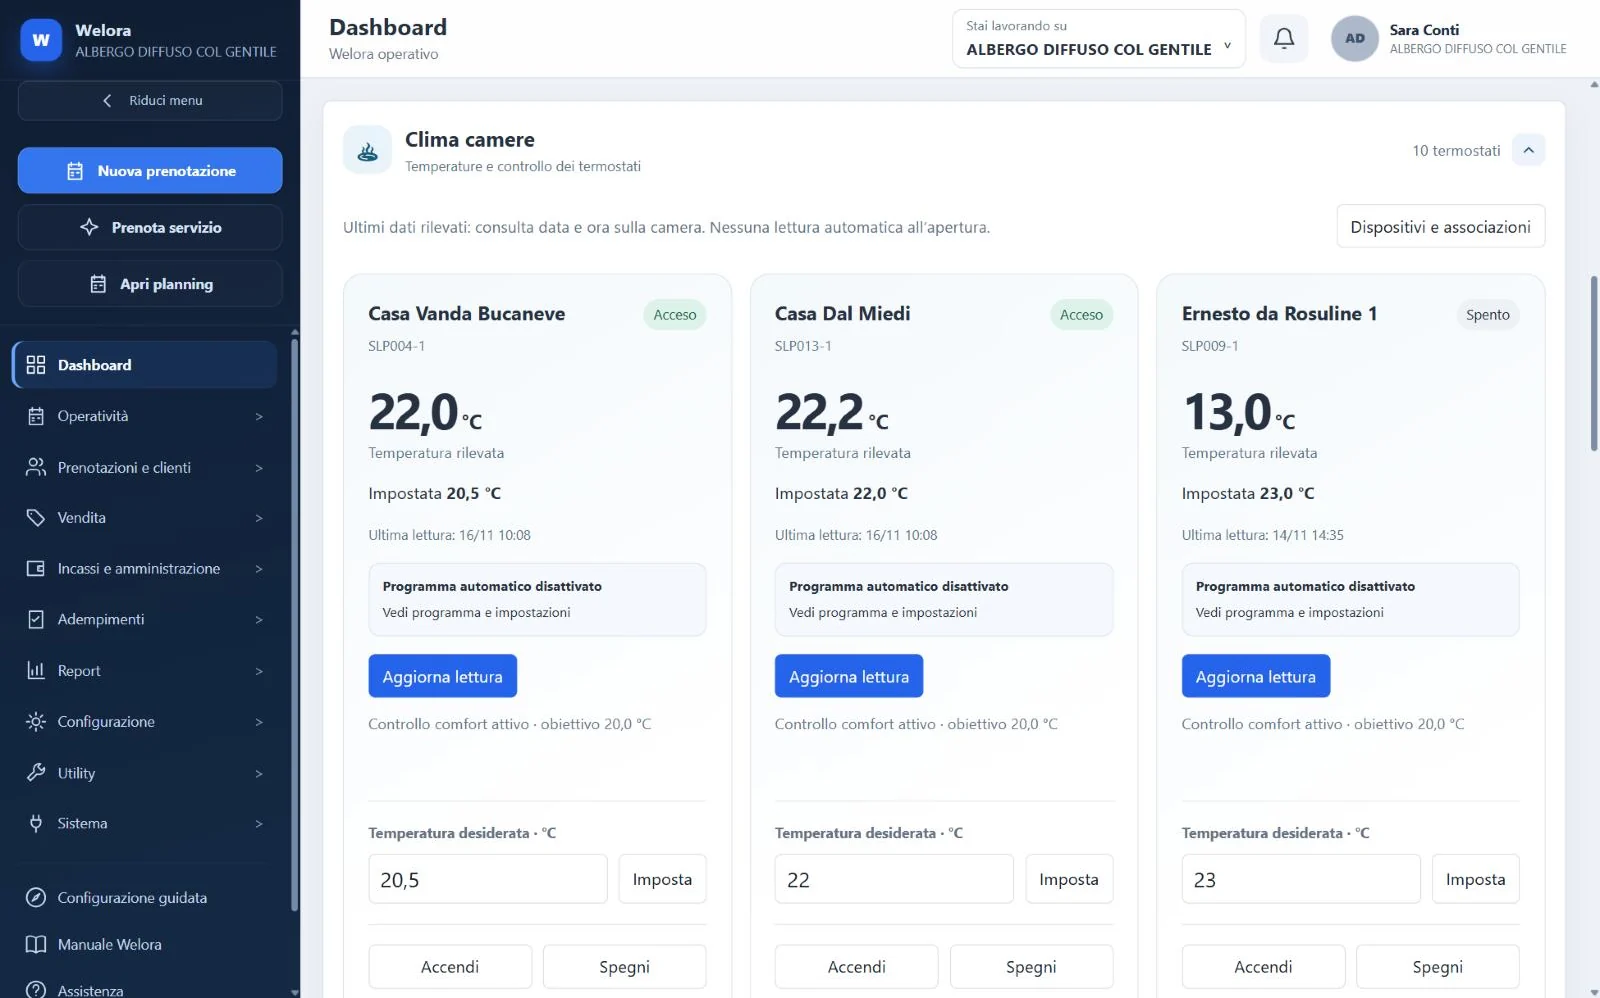
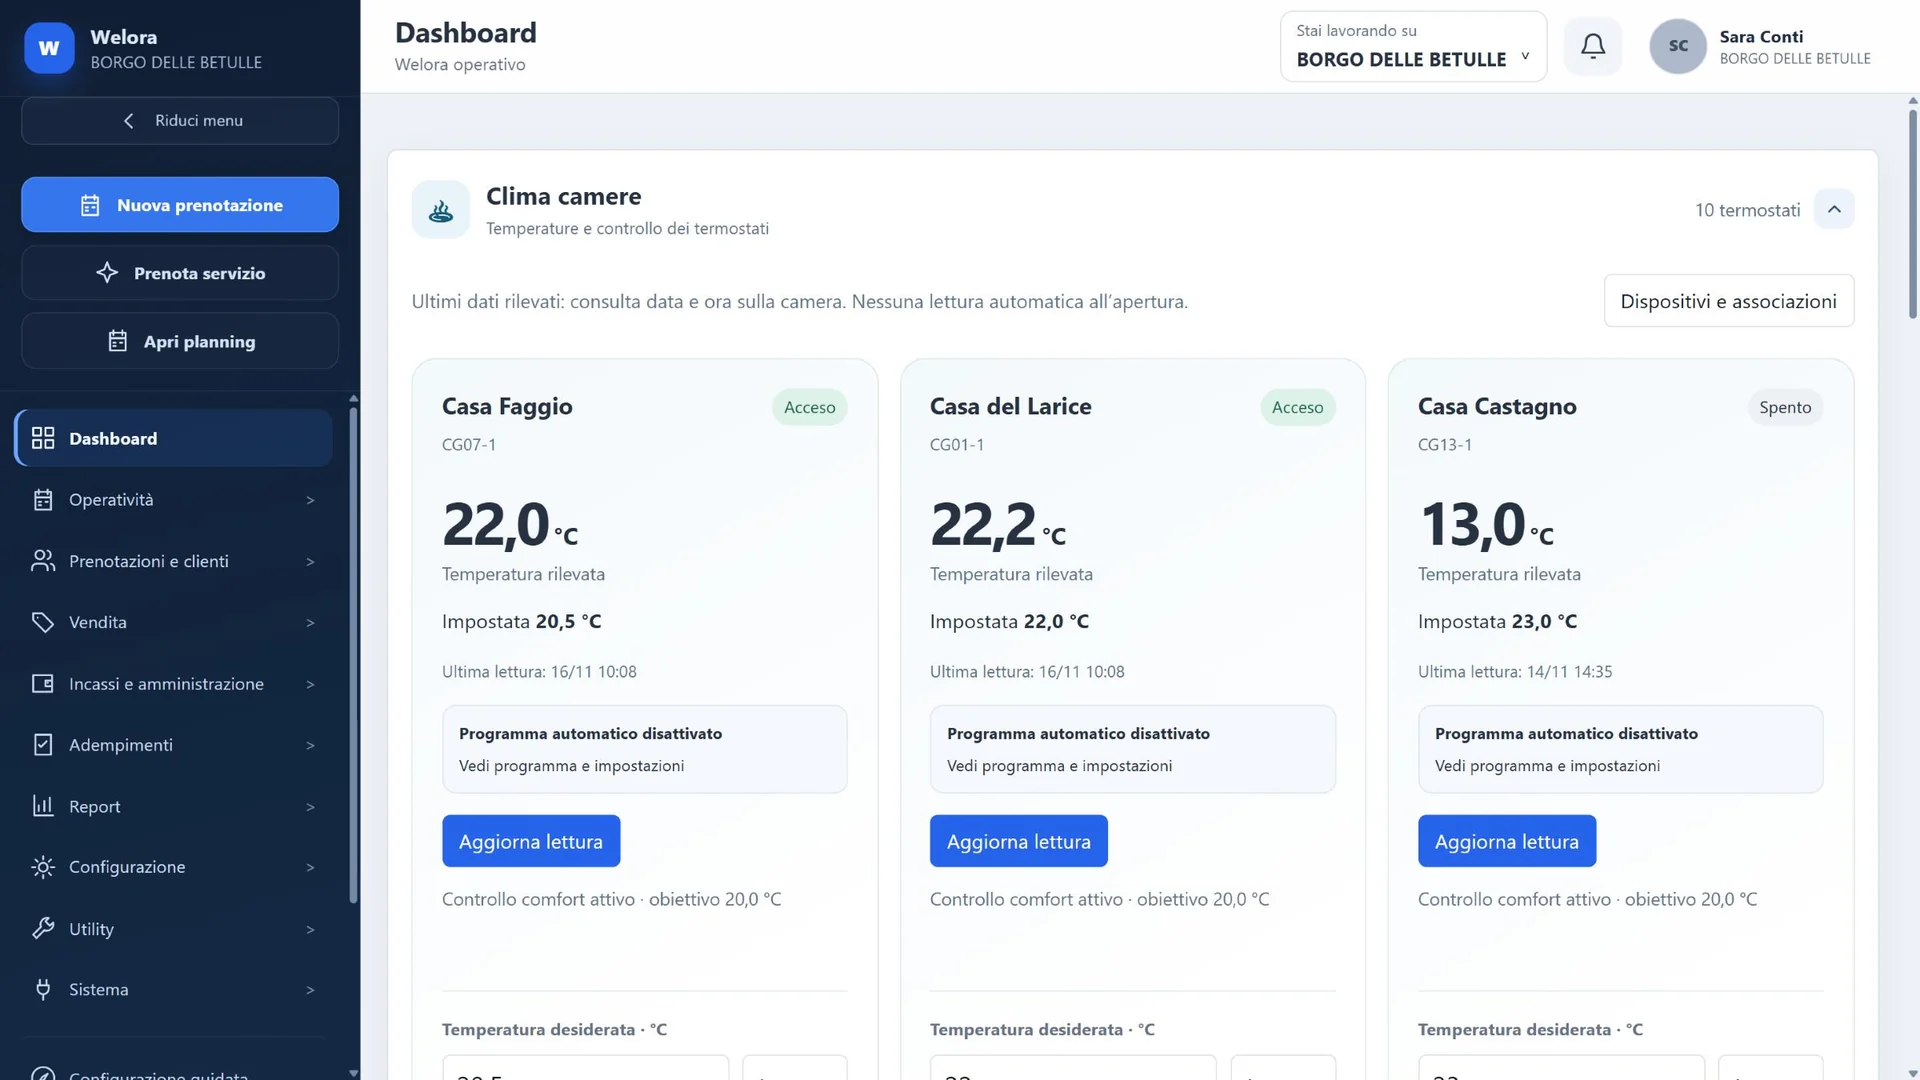
Schermate del gestionale in Full HD anonimizzate: iniziali puntate, incasso mascherato, struttura e case inventate

diff --git a/index.html b/index.html
@@ -176,9 +176,9 @@
       <div class="container">
         <div class="section-heading centered reveal"><div class="eyebrow"><span></span>Un caso reale</div><h2>Già al lavoro in Carnia, all’<em>Albergo Diffuso Socchieve</em>.</h2><p>16 case diffuse nel borgo, un bed &amp; breakfast e servizi benessere, gestiti con Welora. Il sito della struttura l’abbiamo realizzato noi.</p></div>
         <div class="case-grid">
-          <article class="case-card reveal"><figure class="shot"><img src="assets/screens/gestionale-planning.webp" width="1600" height="998" loading="lazy" alt="Planning delle 16 case dell’Albergo Diffuso in Welora (prenotazioni di esempio)"></figure><h3>Le 16 case in un solo planning</h3><p>Arrivi, partenze e disponibilità di tutte le case del borgo in un colpo d’occhio.</p></article>
-          <article class="case-card reveal"><figure class="shot"><img src="assets/screens/gestionale-clima.webp" width="1600" height="998" loading="lazy" alt="Clima delle case dell’Albergo Diffuso gestito da Welora"></figure><h3>Il clima delle case dal gestionale</h3><p>Dieci termostati collegati: temperatura e comfort di ogni casa senza muoversi dalla reception.</p></article>
-          <article class="case-card reveal"><figure class="shot"><img src="assets/screens/gestionale-incassa.webp" width="1600" height="1000" loading="lazy" alt="Incassa con Tap to Pay in Welora"></figure><h3>Incassi dal telefono</h3><p>Soggiorni, conti aperti e vendite al banco incassati con Tap to Pay, sullo stesso gestionale.</p></article>
+          <article class="case-card reveal"><figure class="shot"><img src="assets/screens/gestionale-planning.webp?v=fhd1" width="1920" height="1080" loading="lazy" alt="Planning di 16 case in Welora (nomi e prenotazioni di esempio)"></figure><h3>Le 16 case in un solo planning</h3><p>Arrivi, partenze e disponibilità di tutte le case del borgo in un colpo d’occhio.</p></article>
+          <article class="case-card reveal"><figure class="shot"><img src="assets/screens/gestionale-clima.webp?v=fhd1" width="1920" height="1080" loading="lazy" alt="Clima delle case gestito da Welora (nomi di esempio)"></figure><h3>Il clima delle case dal gestionale</h3><p>Dieci termostati collegati: temperatura e comfort di ogni casa senza muoversi dalla reception.</p></article>
+          <article class="case-card reveal"><figure class="shot"><img src="assets/screens/gestionale-incassa.webp?v=fhd1" width="1920" height="1080" loading="lazy" alt="Incassa con Tap to Pay in Welora"></figure><h3>Incassi dal telefono</h3><p>Soggiorni, conti aperti e vendite al banco incassati con Tap to Pay, sullo stesso gestionale.</p></article>
         </div>
         <p class="case-link reveal"><a href="servizi-siti-web">Vuoi un sito così per la tua struttura? Scopri il servizio siti web →</a></p>
       </div>

diff --git a/app.js b/app.js
@@ -15,7 +15,7 @@
         'Pulizie dal telefono per gli addetti e stato camere',
         'Check-in, pagamenti, fatture e cassa sullo stesso conto*'
       ],
-      image: 'assets/screens/gestionale-planning.webp',
+      image: 'assets/screens/gestionale-planning.webp?v=fhd1',
       alt: 'Planning Welora per strutture ricettive'
     },
     wellness: {
@@ -28,7 +28,7 @@
         'Stessi pagamenti, documenti fiscali e storico cliente',
         'Agenda con professionisti, competenze, turni, cabine e buffer'
       ],
-      image: 'assets/screens/gestionale-incassa.webp',
+      image: 'assets/screens/gestionale-incassa.webp?v=fhd1',
       alt: 'Servizi ed extra gestiti con Welora'
     },
     services: {
@@ -41,7 +41,7 @@
         'Codice serratura e clima pronti all’arrivo*',
         'Pulizie assegnate al checkout, accessi revocati alla partenza'
       ],
-      image: 'assets/screens/gestionale-clima.webp',
+      image: 'assets/screens/gestionale-clima.webp?v=fhd1',
       alt: 'Operatività Welora per appartamenti e affitti brevi'
     },
     hybrid: {
@@ -54,7 +54,7 @@
         'Servizi e flussi condivisi o locali',
         'Visione centrale per controllo e crescita'
       ],
-      image: 'assets/screens/gestionale-planning.webp',
+      image: 'assets/screens/gestionale-planning.webp?v=fhd1',
       alt: 'Gestione multi-sede Welora'
     }
   };
